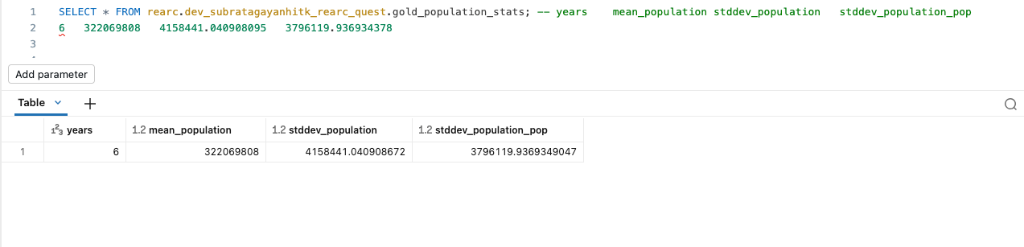
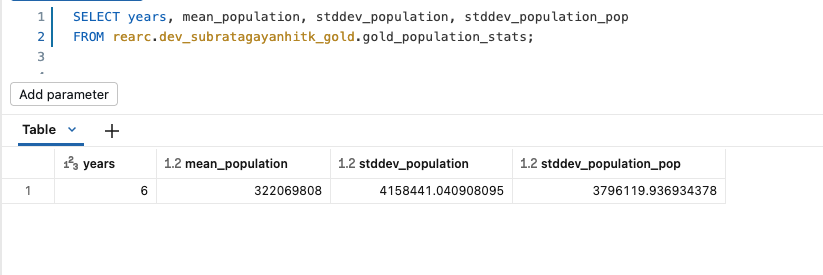
Update workspace screenshots to the bronze/silver/gold schemas
Generated with [Devin](https://devin.ai)

diff --git a/PROCESS.md b/PROCESS.md
@@ -198,12 +198,8 @@ data):
 - **Second run, with no upstream change:** silver's `MERGE` read 0 source rows and inserted, updated
   and deleted 0 rows. All three gold tables were planned as `NO_OP`.
 
-**Workspace screenshots.** Some of these were taken before the split into bronze, silver and gold
-schemas, so they show the earlier single schema `dev_subratagayanhitk_rearc_quest`. The tables and
-results are the same.
-
-Pipeline run: bronze → `*_snapshot` views → silver → gold, all flows completed and all expectations
-met. The table list counts 13: the 10 tables plus the 3 temporary snapshot views.
+**Workspace screenshots.** Pipeline run in the bronze/silver/gold schemas: bronze → `*_snapshot`
+views → silver → gold, all flows completed and all expectations met. The table list counts 13: the 10 tables plus the 3 temporary snapshot views.
 
 ![Pipeline graph](docs/images/pipeline_graph.png)
 
@@ -361,6 +357,10 @@ SCHEMA  dev_..._gold         analyst        USE SCHEMA, SELECT
 SCHEMA  dev_..._silver       (no analyst grant; only account users' READ METADATA inherited)
 SCHEMA  dev_..._bronze       (no analyst grant; only account users' READ METADATA inherited)
 ```
+
+The grants as run in the SQL editor:
+
+![Grants to analyst](docs/images/access_to_analyst_principal1.png)
 
 `analyst` is an account-level group. Analysts get access by being added to it, and the grants never
 name individual users.
